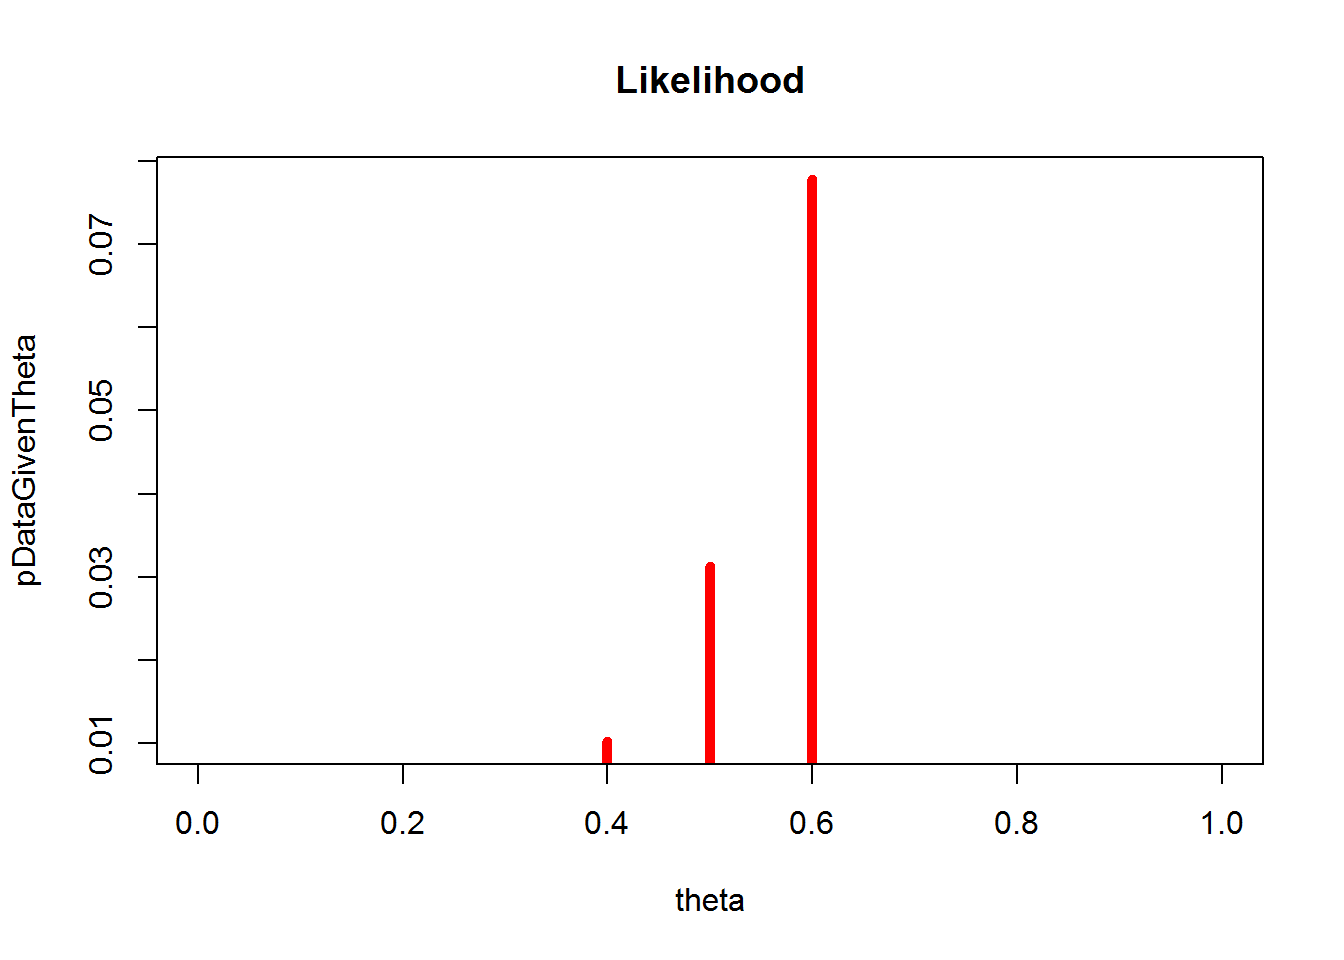
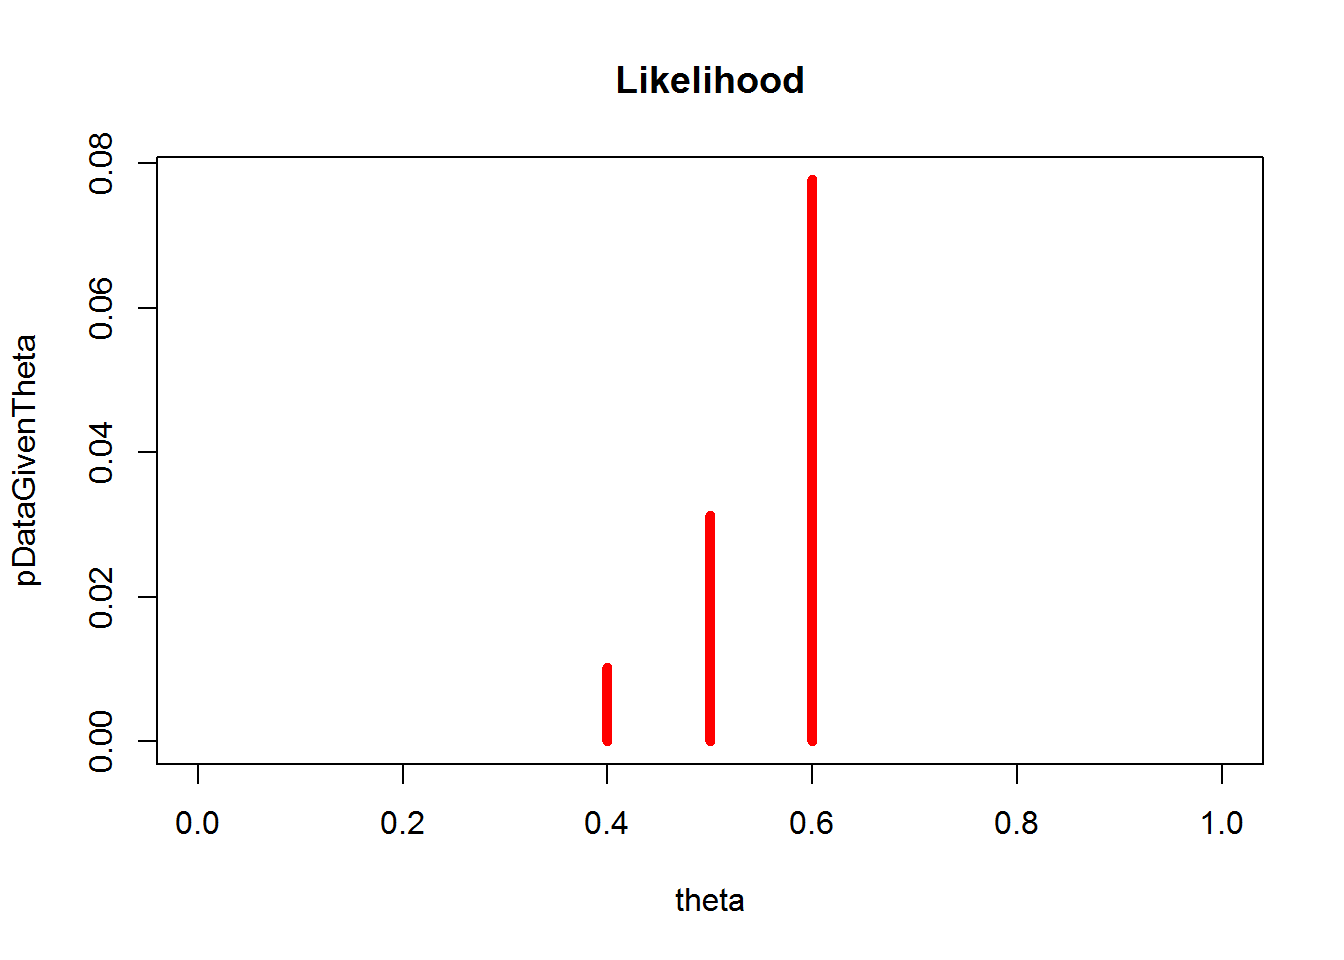
fix plots in how not to be wrong

diff --git a/how-not-to-be-wrong-roulette.html b/how-not-to-be-wrong-roulette.html
@@ -202,7 +202,7 @@ pTheta &lt;-<span class="st"> </span><span class="kw">c</span>(<span class="fl">
 <pre class="sourceCode r"><code class="sourceCode r">(pDataGivenTheta &lt;-<span class="st"> </span>theta^<span class="dv">5</span>)</code></pre>
 <pre><code>## [1] 0.01024 0.03125 0.07776</code></pre>
 <pre class="sourceCode r"><code class="sourceCode r"><span class="kw">plot</span>(theta, pDataGivenTheta, <span class="dt">type =</span> <span class="st">&quot;h&quot;</span>, <span class="dt">col =</span> <span class="st">&quot;red&quot;</span>, <span class="dt">lwd =</span> <span class="dv">5</span>,
-     <span class="dt">xlim =</span> <span class="kw">c</span>(<span class="dv">0</span>, <span class="dv">1</span>), <span class="dt">main =</span> <span class="st">&quot;Likelihood&quot;</span>)</code></pre>
+     <span class="dt">xlim =</span> <span class="kw">c</span>(<span class="dv">0</span>, <span class="dv">1</span>), <span class="dt">ylim =</span> <span class="kw">c</span>(<span class="dv">0</span>, <span class="kw">max</span>(pDataGivenTheta)), <span class="dt">main =</span> <span class="st">&quot;Likelihood&quot;</span>)</code></pre>
 <p><img src="how-not-to-be-wrong-roulette_files/figure-html/unnamed-chunk-2-1.png" title="" alt="" width="672" /></p>
 <p>The result of 5 <strong>RED</strong>’s is more likely if the roulette wheel is biased towards <strong>RED</strong>, than if the roulette wheel is <strong>FAIR</strong> or biased towards <strong>BLACK</strong>. To update our beliefs in light of this new evidence (5 <strong>RED</strong>’s) we follow Bayes Rule:</p>
 <pre class="sourceCode r"><code class="sourceCode r">(pData &lt;-<span class="st"> </span><span class="kw">sum</span>( pDataGivenTheta *<span class="st"> </span>pTheta ))</code></pre>

diff --git a/chapter5-exercises.html b/chapter5-exercises.html
@@ -307,7 +307,7 @@ for(index in <span class="dv">1</span>:Nsamples){
 <blockquote>
 <p>Was the same value used for every simulated sample, or were different values used in different sample?</p>
 </blockquote>
-<p>Values of theta were randomly sampled using the posterior, the line <em>sampleTheta = rbeta(1, postA, postB)</em> calculates a theta per simulation, so one theta value may be 0.9539631, another may be 0.9500953.</p>
+<p>Values of theta were randomly sampled using the posterior, the line <em>sampleTheta = rbeta(1, postA, postB)</em> calculates a theta per simulation, so one theta value may be 0.9737207, another may be 0.9868729.</p>
 <blockquote>
 <p>Based on the simulation results, does the winning model seem to be a good model?</p>
 </blockquote>
